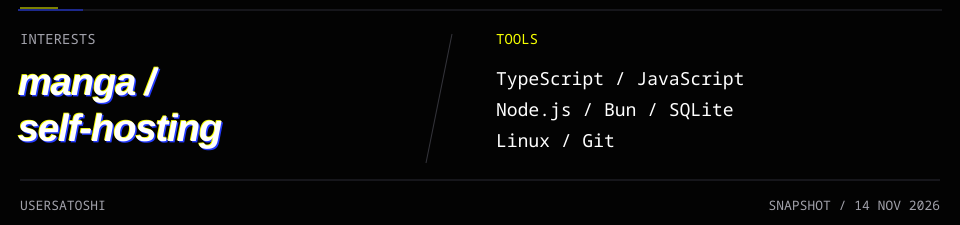
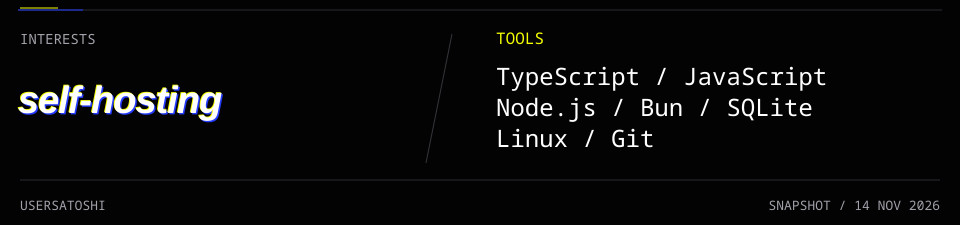
Remove manga interest and enlarge tools text

diff --git a/build/build_about.py b/build/build_about.py
@@ -15,18 +15,18 @@ for mobile in [False,True]:
  w,h=(480,258) if mobile else (960,225)
  b=f'<rect width="{w}" height="{h}" fill="{BG}"/><path d="M18 10H{w-18}" stroke="#292933"/><path d="M18 10h65" stroke="{BLUE}"/><path d="M20 8h38" stroke="{YELLOW}"/>'
  if mobile:
-  b+=t(17,35,'INTERESTS',13,MUTED)+word(15,73,'manga / self-hosting',29)
+  b+=t(17,35,'INTERESTS',13,MUTED)+word(15,73,'self-hosting',29)
   b+=f'<path d="M17 96H463" stroke="#292933"/>'
-  b+=t(17,124,'TOOLS',13,YELLOW)
-  b+=t(17,152,'TypeScript / JavaScript',17)+t(17,177,'Node.js / Bun / SQLite',17)+t(17,202,'Linux / Git',17)
+  b+=t(17,124,'TOOLS',15,YELLOW)
+  b+=t(17,152,'TypeScript / JavaScript',20)+t(17,177,'Node.js / Bun / SQLite',20)+t(17,202,'Linux / Git',20)
   b+=t(17,241,'SNAPSHOT / '+snapshot_date().strftime('%d %b %Y').upper(),12,MUTED)
  else:
-  b+=t(20,44,'INTERESTS',14,MUTED)+word(18,95,'manga /',38)+word(18,141,'self-hosting',38)
+  b+=t(20,44,'INTERESTS',14,MUTED)+word(18,113,'self-hosting',38)
   b+=f'<path d="M452 34 426 163" stroke="#34343b"/>'
-  b+=t(496,44,'TOOLS',14,YELLOW)+t(496,85,'TypeScript / JavaScript',18)+t(496,116,'Node.js / Bun / SQLite',18)+t(496,147,'Linux / Git',18)
+  b+=t(496,44,'TOOLS',16,YELLOW)+t(496,85,'TypeScript / JavaScript',24)+t(496,116,'Node.js / Bun / SQLite',24)+t(496,147,'Linux / Git',24)
   b+=f'<path d="M20 180H940" stroke="#292933"/>'
   b+=t(20,210,'USERSATOSHI',13,MUTED)+t(940,210,'SNAPSHOT / '+snapshot_date().strftime('%d %b %Y').upper(),13,MUTED,'text-anchor="end"')
- title='Interests: manga and self-hosting. Tools: TypeScript, JavaScript, Node.js, Bun, SQLite, Linux, Git. Data snapshot: '+snapshot_date().strftime('%d %B %Y').lstrip('0')+'.'
+ title='Interests: self-hosting. Tools: TypeScript, JavaScript, Node.js, Bun, SQLite, Linux, Git. Data snapshot: '+snapshot_date().strftime('%d %B %Y').lstrip('0')+'.'
  s=f'<svg xmlns="http://www.w3.org/2000/svg" width="{w}" height="{h}" viewBox="0 0 {w} {h}" role="img"><title>{title}</title>{b}</svg>'
  name='about'+('-mobile' if mobile else '')
  (p/'assets'/(name+'.svg')).write_text(s)

diff --git a/README.md b/README.md
@@ -34,5 +34,5 @@
 <!-- profile-about -->
 <picture>
   <source media="(max-width: 600px)" srcset="./assets/about-mobile.png">
-  <img src="./assets/about.png" width="960" alt="Interests: manga and self-hosting. Tools: TypeScript, JavaScript, Node.js, Bun, SQLite, Linux, Git. Activity snapshot: 14 November 2026.">
+  <img src="./assets/about.png" width="960" alt="Interests: self-hosting. Tools: TypeScript, JavaScript, Node.js, Bun, SQLite, Linux, Git. Activity snapshot: 14 November 2026.">
 </picture>
